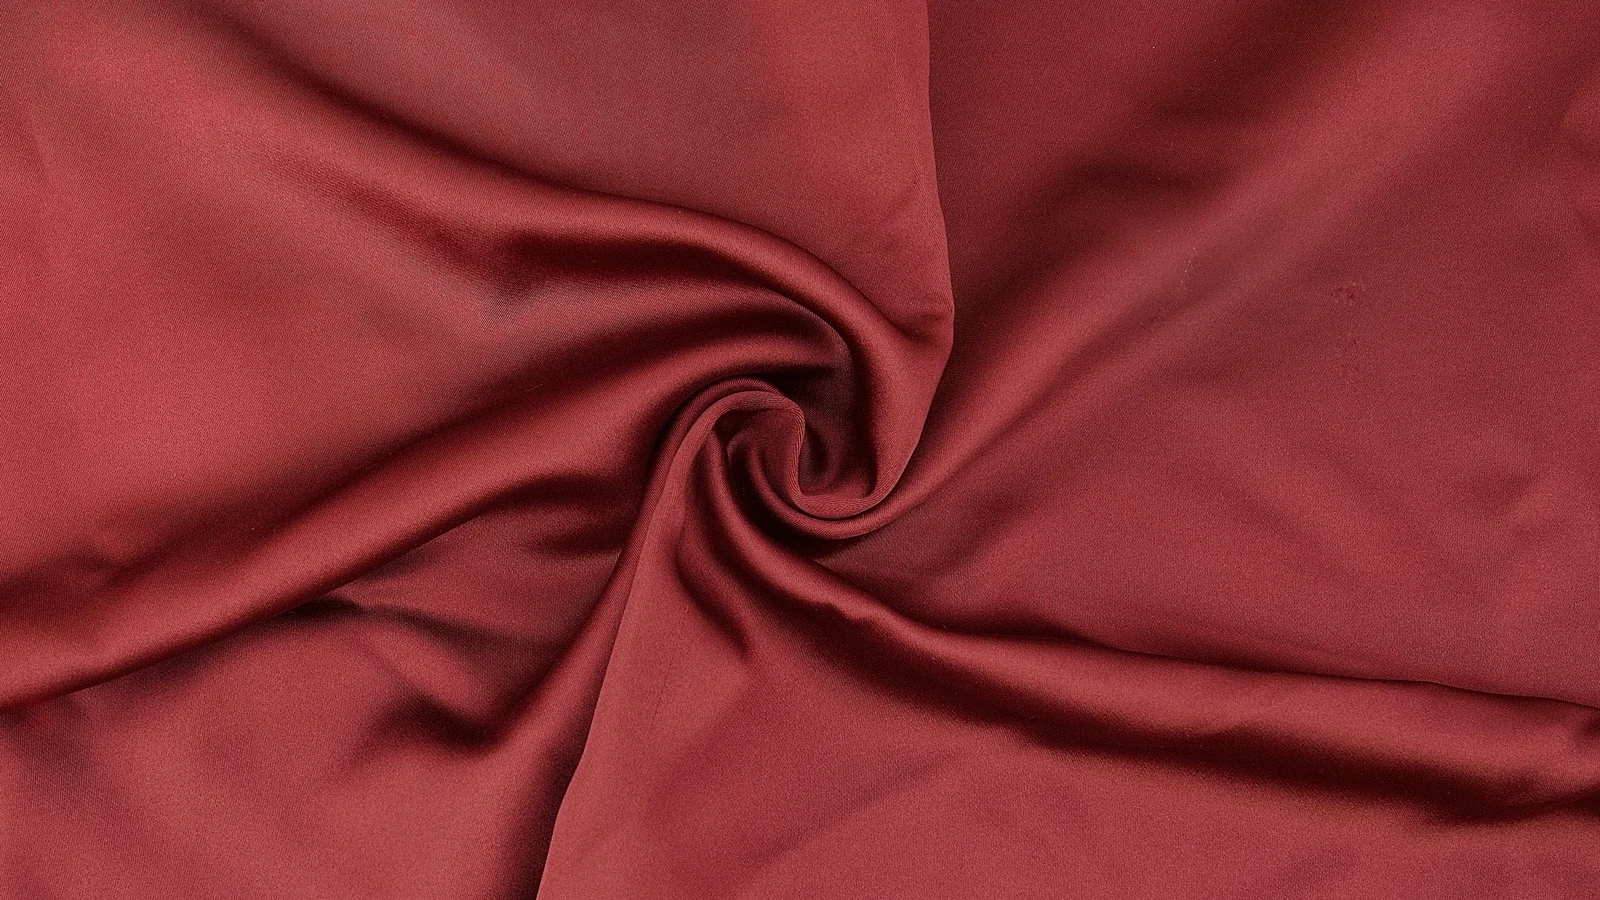
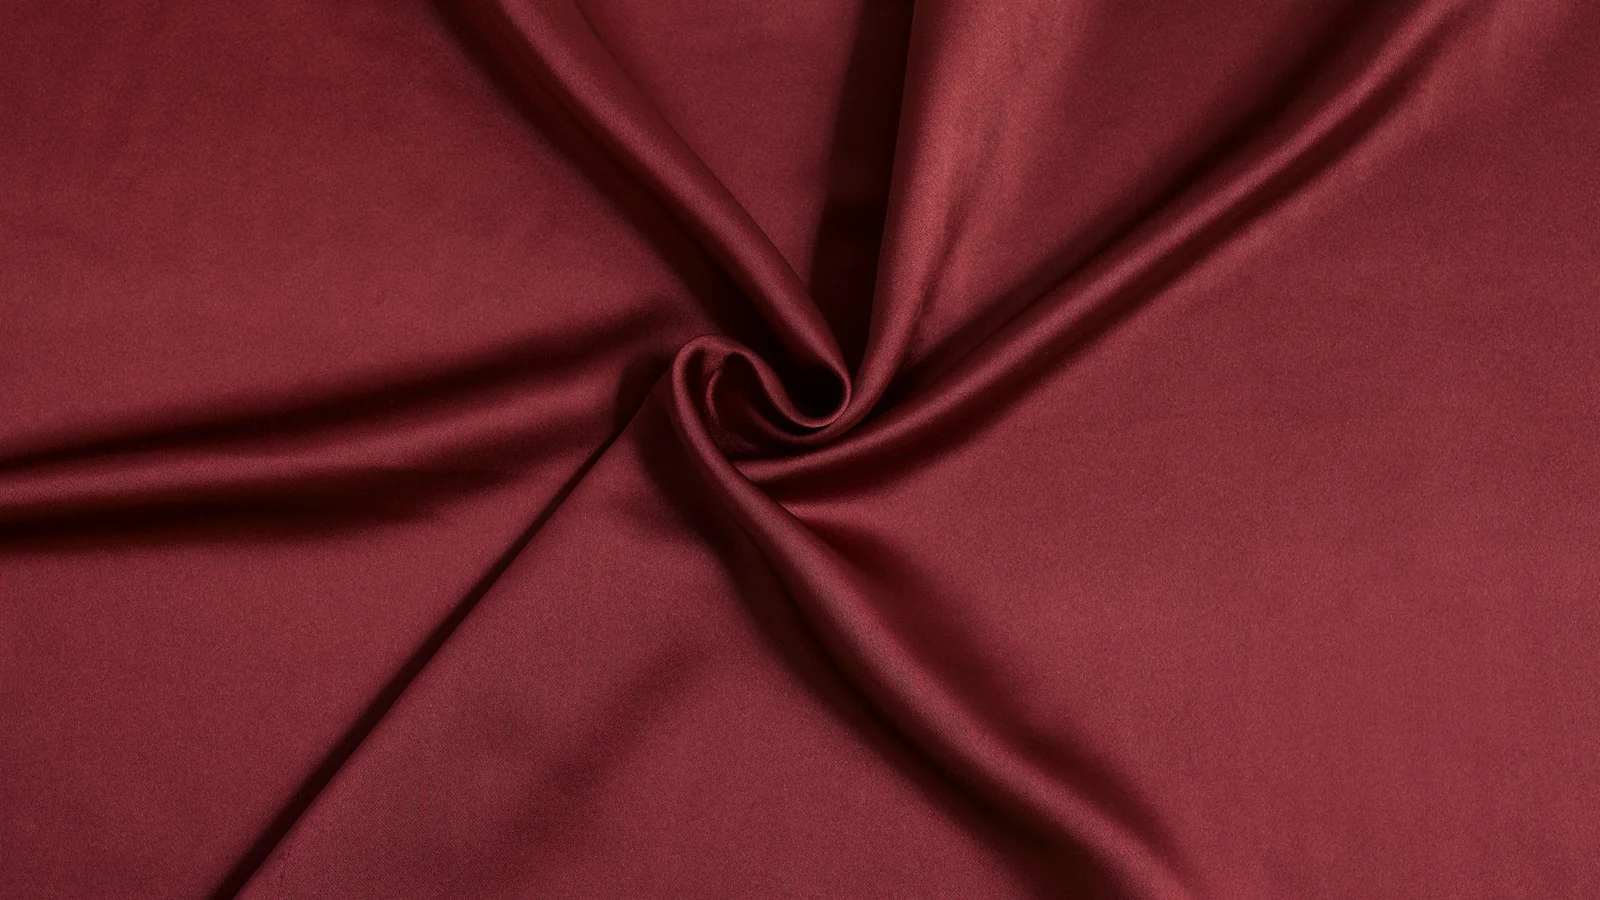
Новые обложки сатинов и блэкаута, WhatsApp заменён на MAX
Заказчик прислал новые презентационные кадры для сатина Camilla, сатина
Rosabella и двухстороннего блэкаута. Кадры канваса и бархата в той же
папке совпали со старыми байт в байт - они не тронуты.

Презентационные теперь лежат рядом со съёмкой оттенков, а не внутри неё,
поэтому у скрипта появился отдельный путь для них. Заодно добавлен режим
HERO_ONLY=1: обложку заказчик меняет чаще, чем саму съёмку, и гонять
из-за одного кадра полсотни фотографий оттенков незачем.

Обложки получили отпечаток содержимого в адресе. Без него замена кадра
была бы не видна: имя файла остаётся прежним, а оптимизатор картинок Next
кеширует результат по адресу и механизма инвалидации не имеет - его
документация прямо советует менять src. На проверке это и подтвердилось:
файл на диске был новый, а страница показывала прежнюю обложку. Отпечаток
считается при генерации и попадает и в данные, и в список разрешённых
адресов в конфиге, так что разойтись они не могут. Адреса с query у
локальных картинок разрешены поимённо, а не общим правилом: пустой search
открыл бы оптимизатор для любого адреса с любым параметром.

Бейдж с номером оттенка у сатина Camilla не появился, хотя новый кадр
называется «119». Палитра Camilla - это оттенки 350-429, номера 119 в ней
нет вовсе (119 есть у сатина Rosabella). Показать его значило бы отправить
закупщика искать оттенок, которого у этой ткани не существует.

WhatsApp заменён на MAX везде: карточка канала в контактах, подвал, кнопка
[…]

diff --git a/src/data/hero-slides.ts b/src/data/hero-slides.ts
@@ -1,3 +1,20 @@
+import { coverVersions } from "@/data/cover-versions";
+
+/**
+ * Адрес слайда с отпечатком содержимого. Слайды пересобираются из тех же
+ * презентационных кадров, что и обложки тканей, поэтому и отпечаток берётся
+ * оттуда же. Без него заменённый кадр ещё несколько часов показывался бы
+ * старым: оптимизатор картинок Next кеширует результат по адресу, а имя
+ * файла при замене не меняется.
+ *
+ * Для слайдов не из этого пайплайна (готовая штора) отпечатка нет - адрес
+ * остаётся обычным.
+ */
+function slide(file: string): string {
+  const version = coverVersions[file.replace(/\.webp$/, "")];
+  return `/images/hero/${file}${version ? `?v=${version}` : ""}`;
+}
+
 /**
  * Презентационные фотографии для первого экрана главной страницы.
  * Меняются по очереди. Чтобы добавить слайд, достаточно положить WebP
@@ -5,33 +22,33 @@
  */
 export const heroSlides = [
   {
-    image: "/images/hero/kanvas.webp",
+    image: slide("kanvas.webp"),
     alt: "Портьерный канвас Camilla — фактурное полотно для штор",
   },
   {
     // Единственный кадр, где ткань показана готовой шторой, а не образцом.
     // Стоит вторым: до шестого слайда при автолистании мало кто досидит.
-    image: "/images/hero/shtora-kanvas.webp",
+    image: slide("shtora-kanvas.webp"),
     alt: "Готовая штора из портьерного канваса на люверсах",
   },
   {
-    image: "/images/hero/kanvas-ali.webp",
+    image: slide("kanvas-ali.webp"),
     alt: "Портьерный канвас Rosabella — плотная ткань для штор",
   },
   {
-    image: "/images/hero/satin.webp",
+    image: slide("satin.webp"),
     alt: "Портьерный сатин Camilla — гладкое полотно с мягким блеском",
   },
   {
-    image: "/images/hero/satin-ali.webp",
+    image: slide("satin-ali.webp"),
     alt: "Портьерный сатин Rosabella — ткань для штор с мягкой драпировкой",
   },
   {
-    image: "/images/hero/barhat-glamour.webp",
+    image: slide("barhat-glamour.webp"),
     alt: "Портьерный бархат Glamour — плотный матовый ворс для тяжёлых штор",
   },
   {
-    image: "/images/hero/dvuhstoronniy-blekaut.webp",
+    image: slide("dvuhstoronniy-blekaut.webp"),
     alt: "Двухсторонний блэкаут — плотное полотно для полного затемнения",
   },
 ] as const;

diff --git a/src/components/shared/consultation-form.tsx b/src/components/shared/consultation-form.tsx
@@ -11,19 +11,6 @@ import { company } from "@/data/company";
 
 type Status = "idle" | "submitting" | "success" | "error" | "rate-limited";
 
-/** Текст заявки для мессенджера — менеджер видит всё без переспрашивания. */
-function whatsappLink(name: string, phone: string, comment: string): string {
-  const text = [
-    "Здравствуйте! Заявка с сайта KNK TEX.",
-    `Имя: ${name}`,
-    `Телефон: ${phone}`,
-    comment,
-  ]
-    .filter(Boolean)
-    .join("\n");
-  return `${company.whatsapp}?text=${encodeURIComponent(text)}`;
-}
-
 export function ConsultationForm({
   subject,
   className,
@@ -32,7 +19,6 @@ export function ConsultationForm({
   className?: string;
 }) {
   const [status, setStatus] = useState<Status>("idle");
-  const [sent, setSent] = useState({ name: "", phone: "", comment: "" });
 
   async function handleSubmit(event: FormEvent<HTMLFormElement>) {
     event.preventDefault();
@@ -57,7 +43,6 @@ export function ConsultationForm({
       }
       if (!response.ok) throw new Error("request_failed");
 
-      setSent({ name, phone, comment });
       setStatus("success");
       form.reset();
     } catch {
@@ -72,18 +57,23 @@ export function ConsultationForm({
         <p className="font-heading text-lg">Заявка отправлена</p>
         <p className="max-w-xs text-sm text-muted-foreground">
           Менеджер свяжется с вами в рабочее время. Удобнее в мессенджере —
-          продублируйте заявку, ответим там.
+          напишите нам, ответим там.
         </p>
         {/* Экран не закрывается сам: раньше окно пропадало через 1,8 с,
-            и кнопку мессенджера никто не успел бы увидеть. */}
+            и кнопку мессенджера никто не успел бы увидеть.
+
+            Текст заявки в ссылку больше не подставляется: у MAX нет
+            параметра вроде ?text= у WhatsApp, ссылка ведёт только на
+            профиль. Зато и имя с телефоном не приходится держать в
+            состоянии формы ради одной кнопки. */}
         <a
-          href={whatsappLink(sent.name, sent.phone, sent.comment)}
+          href={company.max}
           target="_blank"
           rel="noopener noreferrer"
           className="mt-2 inline-flex h-11 items-center gap-2 rounded-lg border border-border px-5 text-sm font-medium transition-colors hover:border-accent hover:text-accent"
         >
           <MessageCircle className="size-4" />
-          Продублировать в WhatsApp
+          Написать в MAX
         </a>
       </div>
     );

diff --git a/src/data/fabrics.ts b/src/data/fabrics.ts
@@ -1,5 +1,6 @@
 import type { Fabric } from "@/lib/types";
 import { fabricColors } from "@/data/fabric-colors";
+import { coverVersions } from "@/data/cover-versions";
 
 /**
  * Источник структуры: TOVARNAYA MATRICA SAIT.xlsx.
@@ -201,8 +202,14 @@ const baseFabrics: Fabric[] = [
  * (scripts/convert-photos.js, раздел HERO).
  */
 const coverCodes: Record<string, string> = {
-  // У канваса Camilla и сатина Camilla презентационные кадры пришли
-  // с именами с камеры — номер оттенка неизвестен, бейдж не показываем.
+  // У канваса Camilla презентационный кадр пришёл с именем с камеры —
+  // номер оттенка неизвестен, бейдж не показываем.
+  //
+  // У сатина Camilla бейджа тоже нет, хотя новый кадр называется «119»:
+  // палитра Camilla — это оттенки 350-429, номера 119 в ней не существует
+  // (119 есть у сатина Rosabella). Пока заказчик не подтвердит номер,
+  // показывать его нельзя: бейдж отправил бы закупщика искать оттенок,
+  // которого у этой ткани нет.
   "kanvas-ali": "160",
   "satin-ali": "144",
   "barhat-glamour": "23",
@@ -223,7 +230,13 @@ export const fabrics: Fabric[] = baseFabrics
   .filter((fabric) => (fabricColors[fabric.slug]?.length ?? 0) > 0)
   .map((fabric) => ({
     ...fabric,
-    image: `/images/fabrics/${fabric.slug}/cover.webp`,
+    // ?v= - отпечаток содержимого обложки. Имя файла при замене кадра
+    // не меняется, а оптимизатор картинок Next кеширует результат по
+    // адресу и инвалидировать его нечем: документация советует менять src.
+    // Без отпечатка новая обложка несколько часов показывалась бы старой.
+    image: `/images/fabrics/${fabric.slug}/cover.webp${
+      coverVersions[fabric.slug] ? `?v=${coverVersions[fabric.slug]}` : ""
+    }`,
     colors: fabricColors[fabric.slug],
     coverCode: coverCodes[fabric.slug],
   }));

diff --git a/next.config.ts b/next.config.ts
@@ -1,6 +1,29 @@
+import { readFileSync } from "node:fs";
+import path from "node:path";
 import type { NextConfig } from "next";
 
 const isDev = process.env.NODE_ENV === "development";
+
+/*
+ * Отпечатки обложек - те же, что подставляются в адрес картинки
+ * параметром ?v= (см. src/data/cover-versions.ts). Оптимизатор картинок
+ * по умолчанию не пропускает локальные адреса с query, и разрешить их
+ * нужно поимённо: если просто опустить search, оптимизировать можно будет
+ * любой адрес с любым параметром.
+ *
+ * Список читается из того же файла, что и данные сайта, поэтому
+ * разойтись они не могут.
+ */
+const coverVersions: Record<string, string> = JSON.parse(
+  readFileSync(
+    path.join(process.cwd(), "scripts", "cover-versions.json"),
+    "utf8"
+  )
+);
+
+const coverSearchPatterns = [...new Set(Object.values(coverVersions))].map(
+  (version) => ({ pathname: "/images/**", search: `?v=${version}` })
+);
 
 /*
  * Политика безопасности контента. Задана прямо в конфиге, а не через
@@ -87,6 +110,13 @@ const nextConfig: NextConfig = {
      * включённом AVIF, и явная строчка не даёт включить его случайно.
      */
     formats: ["image/webp"],
+    /*
+     * Оптимизировать можно только картинки из public/images: и без query
+     * (логотип, заглушка, палитры оттенков), и с отпечатком обложки.
+     * Всё остальное оптимизатор отдаст как 400 - это ограничивает то,
+     * что через него можно прогнать.
+     */
+    localPatterns: [{ pathname: "/images/**", search: "" }, ...coverSearchPatterns],
   },
   experimental: {
     /*

diff --git a/src/data/company.ts b/src/data/company.ts
@@ -7,7 +7,14 @@ export const company = {
   // Telegram-ссылка построена по номеру телефона (открывает чат без
   // отдельного @username, которого пока нет).
   telegram: "https://t.me/+79303875130",
-  whatsapp: "https://wa.me/79303875130",
+  /*
+   * Мессенджер MAX заменил WhatsApp по решению заказчика. Ссылка ведёт на
+   * профиль и выглядит именно так: аналога wa.me/<номер> у MAX нет, номер
+   * в адрес не подставляется, хеш копируется в приложении (Профиль -> QR).
+   * Поэтому текст заявки в ссылку тоже не передать - в отличие от WhatsApp,
+   * где он уходил параметром ?text=.
+   */
+  max: "https://max.ru/u/f9LHodD0cOIZrHheitHB-E9SVaSMBzUJpAqN4pz2Yvi5y9ARrqPwFJ8WV4g",
   // Домен и email - временные, до подключения корпоративной почты.
   email: "info@knktex.ru",
   workingHours: "Пн-Пт: 9:00-18:00 (МСК), Сб-Вс: выходной",

diff --git a/src/data/cover-versions.ts b/src/data/cover-versions.ts
@@ -1,0 +1,17 @@
+/**
+ * Отпечатки презентационных обложек. Файл сгенерирован
+ * scripts/convert-photos.js - руками его править не нужно.
+ *
+ * Отпечаток подставляется в адрес картинки параметром ?v=. Без него
+ * заменённая обложка ещё несколько часов показывалась бы старой:
+ * оптимизатор картинок Next кеширует результат по адресу, а адрес при
+ * замене кадра не меняется.
+ */
+export const coverVersions: Record<string, string> = {
+  "kanvas": "51468a64",
+  "kanvas-ali": "a34904cf",
+  "satin": "e7dfbd91",
+  "satin-ali": "06c8b778",
+  "barhat-glamour": "9130a522",
+  "dvuhstoronniy-blekaut": "182bd2ed"
+};

diff --git a/src/app/contacts/page.tsx b/src/app/contacts/page.tsx
@@ -9,7 +9,7 @@ import { JsonLd } from "@/components/seo/json-ld";
 export const metadata: Metadata = {
   title: "Контакты",
   description:
-    "Контакты KNK TEX: телефон, Telegram, WhatsApp, email и режим работы. Оставьте заявку — менеджер свяжется с вами по вопросам оптовых поставок портьерных тканей.",
+    "Контакты KNK TEX: телефон, Telegram, MAX, email и режим работы. Оставьте заявку — менеджер свяжется с вами по вопросам оптовых поставок портьерных тканей.",
   alternates: { canonical: "/contacts" },
 };
 

diff --git a/src/components/layout/footer.tsx b/src/components/layout/footer.tsx
@@ -74,13 +74,13 @@ export function Footer() {
               Telegram
             </a>
             <a
-              href={company.whatsapp}
+              href={company.max}
               target="_blank"
               rel="noopener noreferrer"
               className="flex items-center gap-2 transition-colors hover:text-gold"
             >
               <MessageCircle className="size-4 text-gold" />
-              WhatsApp
+              MAX
             </a>
           </div>
         </div>

diff --git a/src/components/contacts/contact-channels.tsx b/src/components/contacts/contact-channels.tsx
@@ -19,9 +19,9 @@ export function ContactChannels({ className }: { className?: string }) {
     },
     {
       icon: MessageCircle,
-      label: "WhatsApp",
-      value: "Написать в WhatsApp",
-      href: company.whatsapp,
+      label: "MAX",
+      value: "Написать в MAX",
+      href: company.max,
       external: true,
     },
     {

diff --git a/src/lib/schema.ts b/src/lib/schema.ts
@@ -15,7 +15,7 @@ export function organizationJsonLd() {
     telephone: company.phone,
     email: company.email,
     areaServed: "RU",
-    sameAs: [company.telegram, company.whatsapp],
+    sameAs: [company.telegram, company.max],
   };
 }
 
